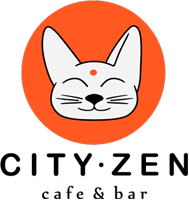
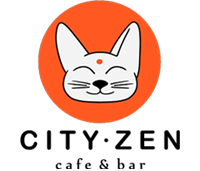
Partners block was updated.

diff --git a/public/css/style.css b/public/css/style.css
@@ -2357,8 +2357,19 @@ img.header-logo {
     line-height: 28px;
 }
 
+#partners .partner {
+    padding: 0;
+    margin: 0;
+}
+
+#partners .partner a {
+    padding: 0;
+    margin: 0;
+}
+
 #partners img {
-    margin: 20px 0;
+    max-width: 100%;
+    height: auto;
 }
 
 .cool_facts_area {
